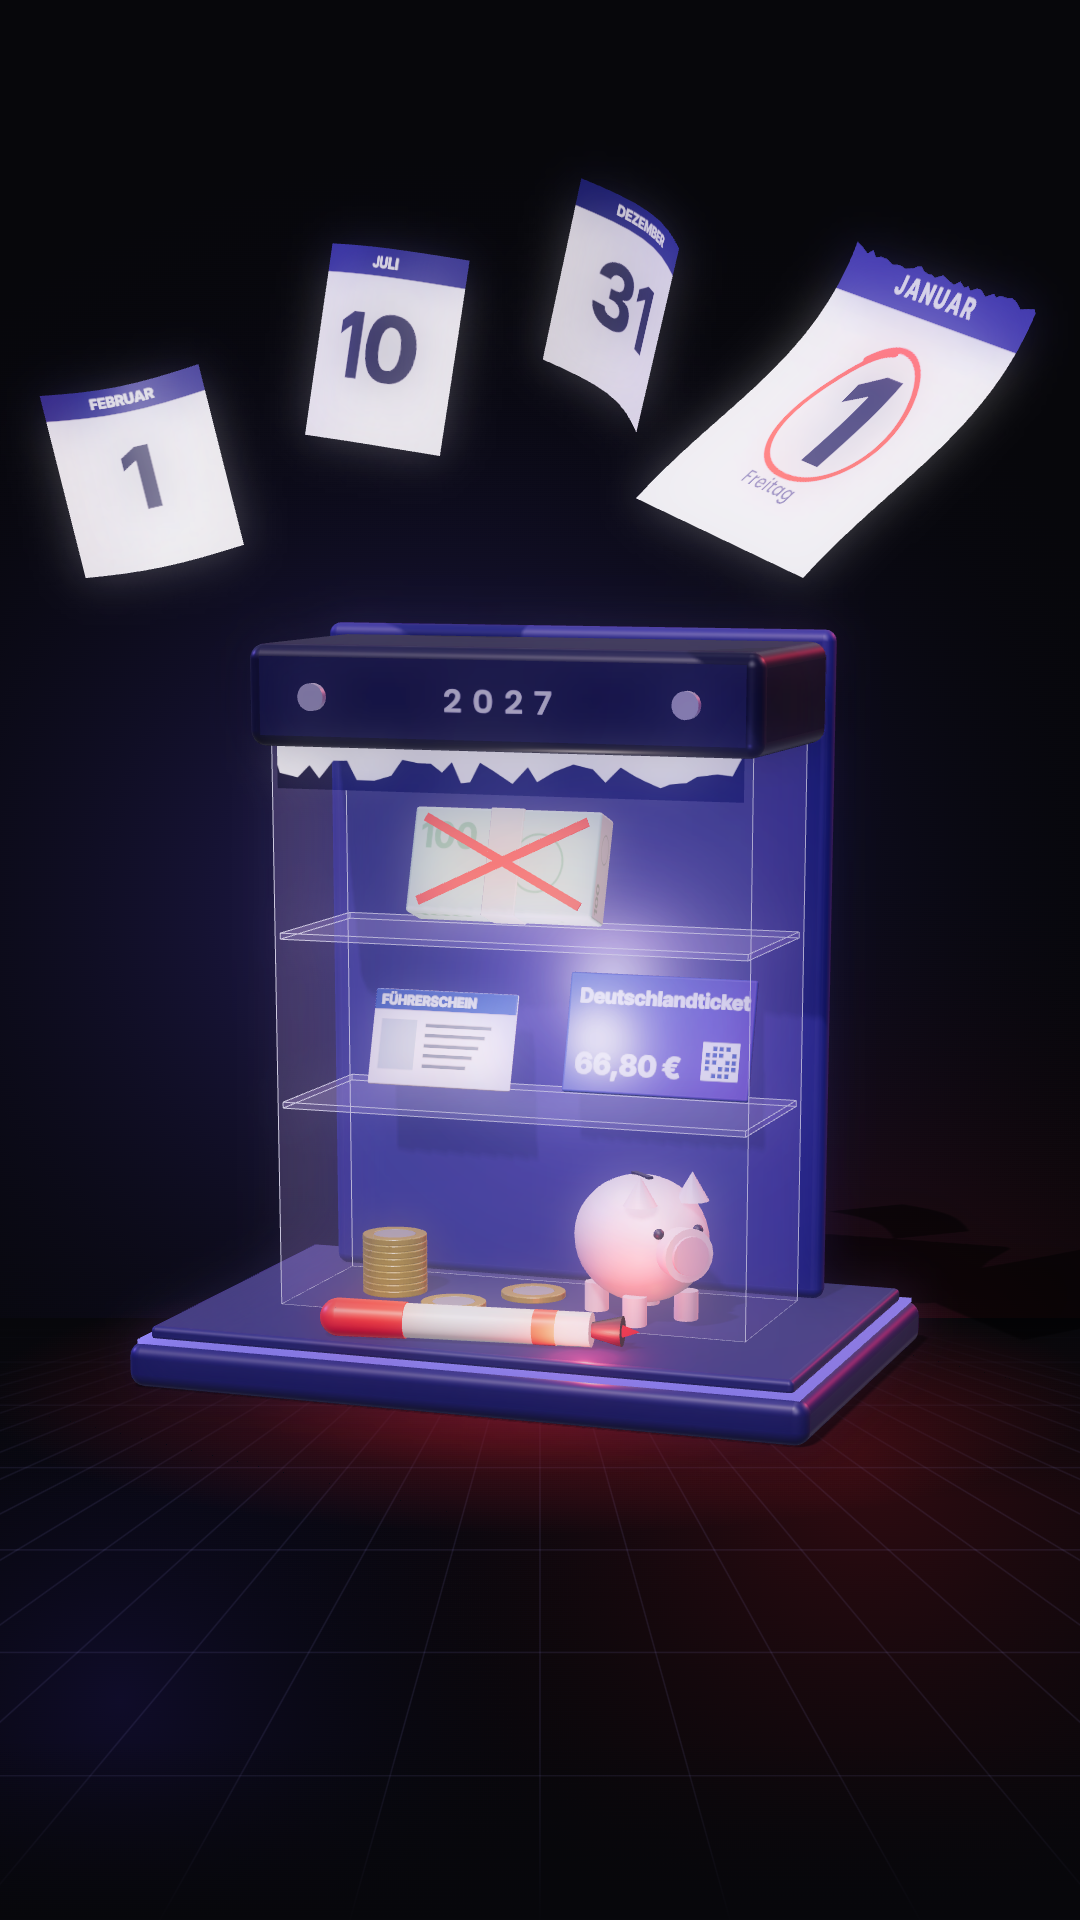
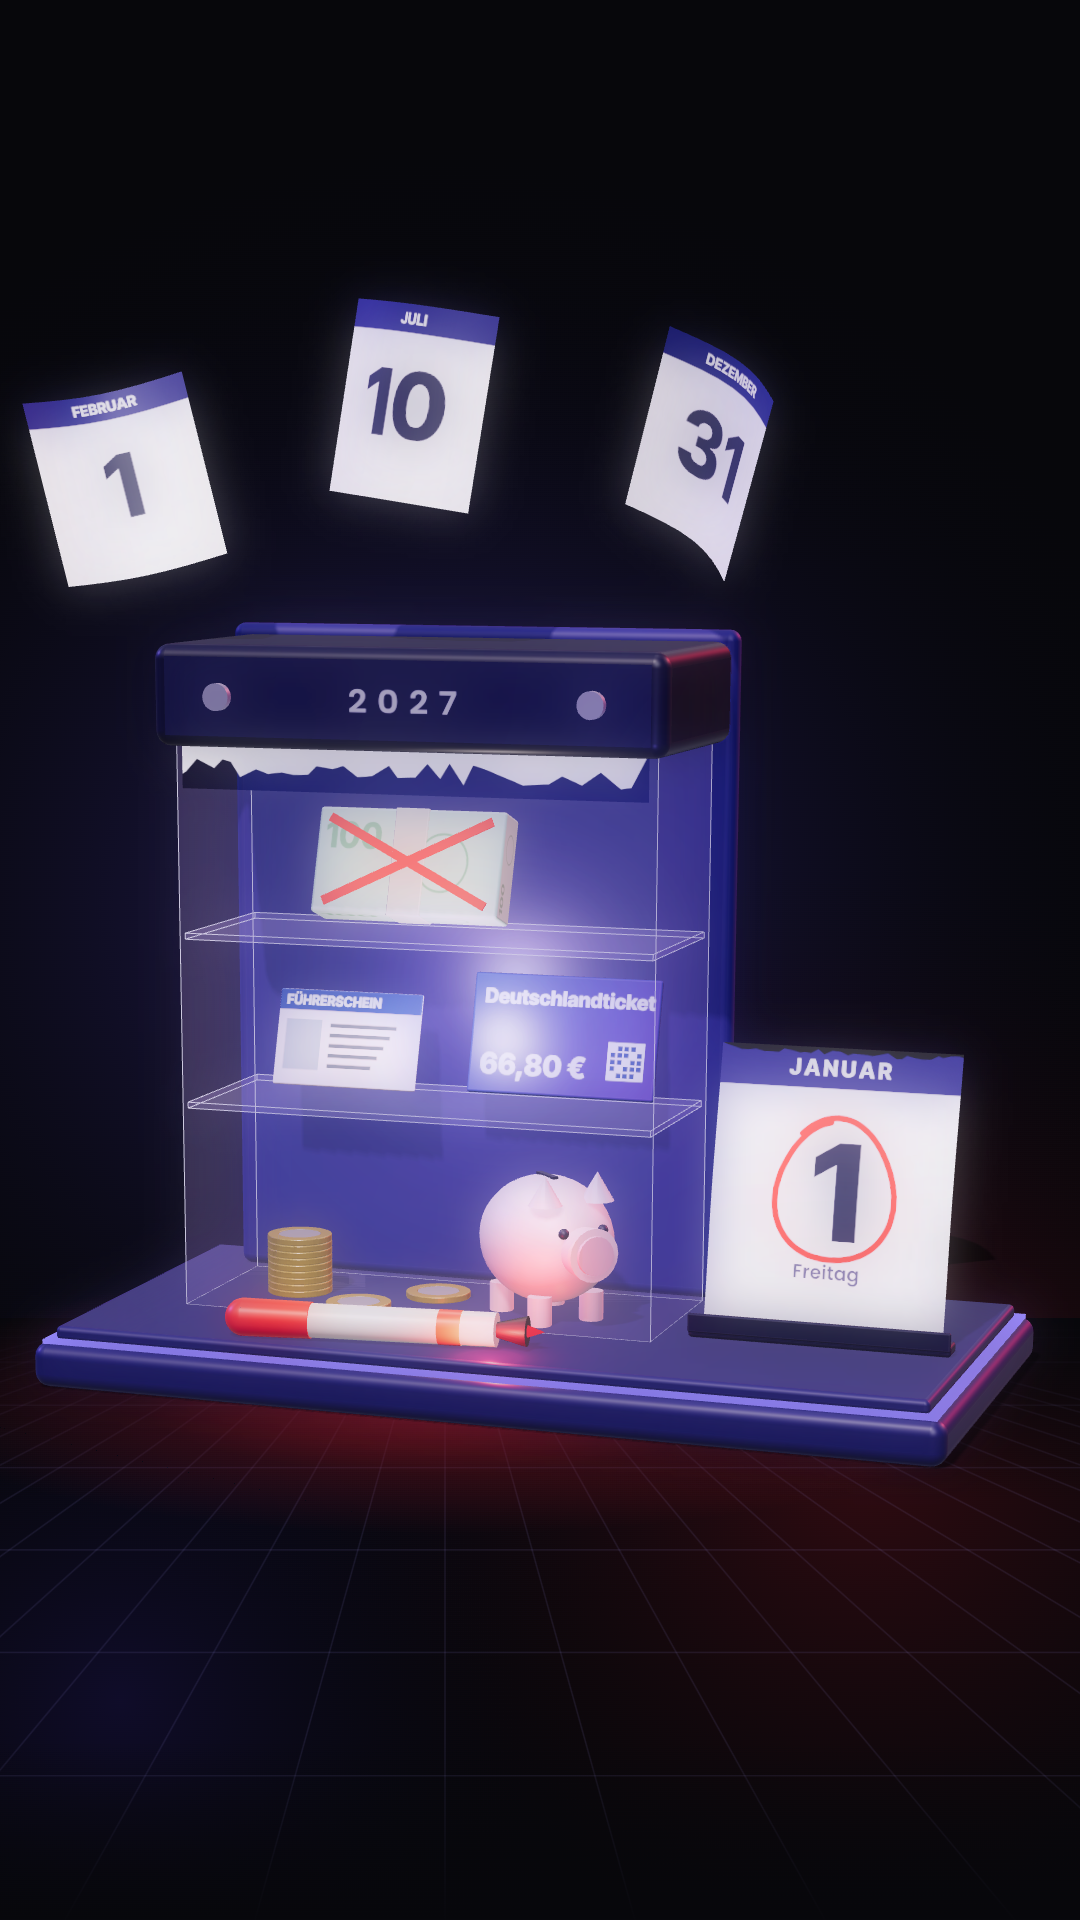
2027-Cover: Januar-Blatt steht im Aufsteller neben dem Kalender
Claude-Session: https://claude.ai/code/session_01JQEQeouhfuAX8JpSfuj7SD

Changed region(s): [[0.0306, 0.0938, 0.9778, 0.7812], [0.275, 0.125, 0.4583, 0.2812], [0.0306, 0.1875, 0.2444, 0.3125]]

diff --git a/jahr2027/cover_clean.html b/jahr2027/cover_clean.html
@@ -20,8 +20,8 @@ import {RoundedBoxGeometry} from 'three/addons/geometries/RoundedBoxGeometry.js'
 await Promise.all(['600 40px Poppins','800 96px "Inter Tight"'].map(f=>document.fonts.load(f)));
 const W=1080,H=1920;const Q=new URLSearchParams(location.search);const V=+(Q.get('v')||1);
 const bg=document.getElementById('bg').getContext('2d'),fg=document.getElementById('fg').getContext('2d');
-const DEF={1:{cy:1450,el:14,ry:-0.38,s:1.12},2:{cy:1330,el:14,ry:-0.38,s:1.12},3:{cy:1360,el:14,ry:-0.34,s:1.05}}[V];
-const CX=+(Q.get('cx')||540),CY=+(Q.get('cy')||DEF.cy);
+const DEF={1:{cy:1360,el:14,ry:-0.38,s:1.05},2:{cy:1330,el:14,ry:-0.38,s:1.12},3:{cy:1360,el:14,ry:-0.34,s:1.05}}[V];
+const CX=+(Q.get('cx')||(V===2?540:445)),CY=+(Q.get('cy')||DEF.cy);
 // ---------- background (same recipe as the other clean covers) ----------
 {bg.fillStyle='#07070B';bg.fillRect(0,0,W,H);
  const blob=(x,y,r,c)=>{const g=bg.createRadialGradient(x,y,0,x,y,r);g.addColorStop(0,c);g.addColorStop(1,'rgba(0,0,0,0)');bg.fillStyle=g;bg.fillRect(0,0,W,H);};
@@ -65,9 +65,10 @@ const coin=(par,x,y,z,rx,ry,rz=0)=>{const G=new THREE.Group();G.position.set(x,y
 // ---------------- the calendar ----------------
 const C=obj;const PW=1.3,PH=1.5,PD=0.5,BY=0.16;
 // plinth with a lit edge
-RB(C,PW+0.55,0.12,PD+0.7,PAN,0,0.06,0.05,0.04);
-add(C,new THREE.BoxGeometry(PW+0.5,0.012,PD+0.65),new THREE.MeshBasicMaterial({color:0x9a8cff,toneMapped:false}),0,0.122,0.05);
-RB(C,PW+0.45,0.04,PD+0.6,PAN,0,0.14,0.05,0.015);
+const XW=(V===2?0:0.58),XO=XW/2; // v1/v3: the plinth is longer to the right, the torn page stands there in a small holder
+RB(C,PW+0.55+XW,0.12,PD+0.7,PAN,XO,0.06,0.05,0.04);
+add(C,new THREE.BoxGeometry(PW+0.5+XW,0.012,PD+0.65),new THREE.MeshBasicMaterial({color:0x9a8cff,toneMapped:false}),XO,0.122,0.05);
+RB(C,PW+0.45+XW,0.04,PD+0.6,PAN,XO,0.14,0.05,0.015);
 // back plate and header bar with rivets
 RB(C,PW+0.12,PH+0.28,0.06,NAVY,0,BY+(PH+0.28)/2,-PD/2-0.05,0.03);
 const hb=canvasTex(1024,180,(g,w,h)=>{g.fillStyle='#1b1846';g.fillRect(0,0,w,h);g.fillStyle='rgba(220,214,255,0.8)';g.font='600 70px Poppins';g.textAlign='center';g.letterSpacing='22px';g.fillText('2027',w/2+11,118);});
@@ -122,15 +123,21 @@ function PAGES(){const pw=PW-0.04,ph=PH-0.04;
   const torn=(()=>{const c=document.createElement('canvas');c.width=pageT.image.width;c.height=pageT.image.height;const g=c.getContext('2d');g.drawImage(pageT.image,0,0);
     g.globalCompositeOperation='destination-out';g.beginPath();g.moveTo(0,0);let x=0;while(x<c.width){x+=16+Math.random()*24;g.lineTo(Math.min(c.width,x),8+Math.random()*26);}g.lineTo(c.width,0);g.closePath();g.fill();
     const t=new THREE.CanvasTexture(c);t.colorSpace=THREE.SRGBColorSpace;t.anisotropy=8;return t;})();
-  const G=pageMesh(pageGeo(pw,ph,v=>0.55*Math.sin(v*Math.PI)*0.6+v*0.5),torn);G.children.forEach(m=>{m.material.transparent=true;m.material.alphaTest=0.5;});
+  const G=pageMesh(pageGeo(pw,ph,v=>0.05*Math.sin(v*Math.PI*2)),torn); // nearly flat: it stands in the holderG.children.forEach(m=>{m.material.transparent=true;m.material.alphaTest=0.5;});
   if(!G.children[1].material.map){G.children[1].material.alphaMap=null;}
-  G.scale.setScalar(0.56);G.position.set(1.02,BY+PH+0.74,0.5);G.rotation.set(-0.3,-0.6,-0.42);C.add(G);}
+  // the torn page stands right next to the calendar in a small holder on the plinth: a ledge in front, a wire stand behind, leaning back slightly
+  const sc=0.5,w=pw*sc,h=ph*sc,a=0.2,x0=1.07,y0=0.16+0.03,z0=0.12;G.scale.setScalar(sc);G.rotation.set(-a,0,0);
+  G.position.set(x0,y0+h/2*Math.cos(a),z0-h/2*Math.sin(a));C.add(G);
+  RB(C,w+0.06,0.03,0.07,DARK,x0,0.16+0.015,z0+0.01,0.01);RB(C,w+0.06,0.05,0.012,DARK,x0,0.16+0.04,z0+0.045,0.005);
+  const back=z0-0.02-h*0.62*Math.sin(a);for(const sx of [-1,1]){const A=new THREE.Vector3(x0+sx*w*0.3,0.16,z0-0.32),B=new THREE.Vector3(x0+sx*w*0.3,y0+h*0.62*Math.cos(a),back);
+    const g=new THREE.CylinderGeometry(0.008,0.008,A.distanceTo(B),10);g.translate(0,A.distanceTo(B)/2,0);g.applyQuaternion(new THREE.Quaternion().setFromUnitVectors(new THREE.Vector3(0,1,0),B.clone().sub(A).normalize()));const m=new THREE.Mesh(g,METAL);m.position.copy(A);m.castShadow=true;C.add(m);}
+  {const g=new THREE.CylinderGeometry(0.008,0.008,w*0.6,10).rotateZ(Math.PI/2);const m=new THREE.Mesh(g,METAL);m.position.set(x0,y0+h*0.62*Math.cos(a),back);C.add(m);}}
 PAGES();
 // v3: three more torn pages drift above the calendar
 if(V===3){const months=['FEBRUAR','JULI','DEZEMBER'],days=['1','10','31'];months.forEach((mn,i)=>{const T=canvasTex(512,590,(g,w,h)=>{g.fillStyle='#ece6ff';g.fillRect(0,0,w,h);g.fillStyle='#2b2778';g.fillRect(0,0,w,86);g.fillStyle='#f4f1ff';g.font='800 46px "Inter Tight"';g.textAlign='center';g.fillText(mn,w/2,60);
     g.fillStyle='#1d1a4a';g.font='800 280px "Inter Tight"';g.fillText(days[i],w/2,400);});const p=new THREE.Mesh(new THREE.PlaneGeometry(0.42,0.48,8,8),new THREE.MeshStandardMaterial({map:T,roughness:.55,side:THREE.DoubleSide}));
   const pos=p.geometry.attributes.position;for(let k=0;k<pos.count;k++){const x=pos.getX(k);pos.setZ(k,0.06*Math.sin((x+0.21)/0.42*Math.PI)*(i%2?1:-1));}p.geometry.computeVertexNormals();
-  p.position.set([-1.0,-0.38,0.2][i],BY+PH+[0.68,0.98,1.08][i],[0.25,0.1,0.05][i]);p.rotation.set(-0.3+i*0.2,[0.5,-0.2,-0.6][i],[0.35,-0.15,-0.4][i]);p.castShadow=true;C.add(p);});}
+  p.position.set([-0.78,-0.05,0.68][i],BY+PH+[0.66,0.84,0.72][i],[0.25,0.1,0.05][i]);p.rotation.set(-0.3+i*0.2,[0.5,-0.2,-0.6][i],[0.35,-0.15,-0.4][i]);p.castShadow=true;C.add(p);});}
 // the red marker lying on the plinth in front
 {const Mk=new THREE.Group();Mk.position.set(0.3,0.16+0.05,0.45);Mk.rotation.set(0,0.12,Math.PI/2);C.add(Mk);const wh=M(0xeceae5,{roughness:.35});
  add(Mk,new THREE.CylinderGeometry(0.045,0.045,0.5,28),wh,0,0.25,0);add(Mk,new THREE.CylinderGeometry(0.046,0.046,0.06,28),REDS,0,0.12,0);add(Mk,new THREE.CylinderGeometry(0.05,0.048,0.18,28),REDS,0,0.58,0);

diff --git a/STATUS.md b/STATUS.md
@@ -123,7 +123,7 @@ Der Nutzer wollte neue Ideen ohne Diorama-Look und hat dieses Thema gewählt, da
 - Higgsfield-Guthaben war 0, deshalb ist alles selbst in 3D gebaut; Prompts für eine spätere Variante stehen im Drehbuch unter F.
 - Fertig am 19.11.2026: `Was_aendert_sich_2027_mit_Musik.mp4` und `_nur_Effekte.mp4` (77,0 s, −16 LUFS), Upload-Fassung mit Cover als erstem Standbild in `social/Was_aendert_sich_2027_Upload_mit_Cover.mp4`, Kontaktbogen `Kontaktbogen_Was_aendert_sich_2027.jpg`. Die ersten 248 Bilder wurden mit einer lebendigeren Hook-Kamera neu gerendert (`fr2`, Naht bei Bild 248 geprüft). Effekte liegen 5 bis 8 dB unter der Stimme.
 - Dritte Fassung (19.11.2026, Feedback mit sieben Screenshots): Nichts ragt mehr in den Tisch (geprüft für jedes Bild mit `node clipcheck.mjs 0 76`, Kollisionen von Bündel, Theke und Figuren mit `node collide.mjs 61 71`). Die Balken haben einen Sockel mit großem „2026/2027“, die Werte stehen auf den Balken. Die Lasche des Musterungsbriefs sitzt hinten, der Brief kommt davor heraus, die Adresse passt ins Fenster. Die Brutto-Zeile passt immer zum Stundenlohn. Statt der Figuren, die nach KI aussahen, gibt es zwei Holz-Spielfiguren (`mkMeeple` in `src/props.js`, `meepleAnim` in `src/main.js`), das Bündel rutscht über den Tisch statt zu schweben. Alle Effekte kommen aus der Soundza-Bibliothek (IDs in `SOUNDS.md`), Musik sowie Whoosh und Klicks des Nutzers bleiben. Das Video wurde komplett neu gerendert (`fr3`, dann nach `fr`).
-- Cover neu (Wunsch des Nutzers, 20.11.2026: „das Cover im Stil von meinen anderen“): `jahr2027/cover_clean.html` (Server Port 8777 im Ordner `jahr2027`, `node cover_clean.mjs out.png "?v=1"`), clean wie Geldautomat, Fernsehturm und Merz: kompakter Abreißkalender „2027“ in Lila und Violett auf einer Platte mit Lichtkante, gläserner Blattblock mit Blick ins Innere (Münzstapel, Deutschlandticket 66,80 €, Sparschwein, Führerschein, Geldbündel mit rotem Kreuz), roter Filzstift auf der Platte. `?v=1` das Januar-Blatt mit rotem Kringel fliegt gerade ab (als Thumbnail gesetzt), `?v=2` das Blatt rollt sich unten auf, `?v=3` wie 1 mit drei weiteren fliegenden Blättern. Vergleich: `jahr2027/social/Cover_2027_Varianten.jpg`. Das alte Cover (Kalender auf dem grauen Tisch) liegt in `social/cover_alt/`. Danach auf Fehler geprüft und überarbeitet (Wunsch des Nutzers, 20.11.2026): Nichts schwebt mehr, Münzen liegen flach auf dem Boden, Führerschein und Deutschlandticket stehen auf einem gläsernen Regalboden und lehnen an der Rückwand, das Geldbündel steht auf einem zweiten Regalboden, das rote Kreuz bleibt auf dem Bündel, der Stift liegt ganz auf der Platte, das abgerissene Blatt (mit gerissener Oberkante) fliegt frei über der Kopfleiste und liegt komplett im 3:4-Ausschnitt.
+- Cover neu (Wunsch des Nutzers, 20.11.2026: „das Cover im Stil von meinen anderen“): `jahr2027/cover_clean.html` (Server Port 8777 im Ordner `jahr2027`, `node cover_clean.mjs out.png "?v=1"`), clean wie Geldautomat, Fernsehturm und Merz: kompakter Abreißkalender „2027“ in Lila und Violett auf einer Platte mit Lichtkante, gläserner Blattblock mit Blick ins Innere (Münzstapel, Deutschlandticket 66,80 €, Sparschwein, Führerschein, Geldbündel mit rotem Kreuz), roter Filzstift auf der Platte. `?v=1` das Januar-Blatt mit rotem Kringel fliegt gerade ab (als Thumbnail gesetzt), `?v=2` das Blatt rollt sich unten auf, `?v=3` wie 1 mit drei weiteren fliegenden Blättern. Vergleich: `jahr2027/social/Cover_2027_Varianten.jpg`. Das alte Cover (Kalender auf dem grauen Tisch) liegt in `social/cover_alt/`. Danach auf Fehler geprüft und überarbeitet (Wunsch des Nutzers, 20.11.2026): Nichts schwebt mehr, Münzen liegen flach auf dem Boden, Führerschein und Deutschlandticket stehen auf einem gläsernen Regalboden und lehnen an der Rückwand, das Geldbündel steht auf einem zweiten Regalboden, das rote Kreuz bleibt auf dem Bündel, der Stift liegt ganz auf der Platte, das abgerissene Blatt (mit gerissener Oberkante) fliegt frei über der Kopfleiste und liegt komplett im 3:4-Ausschnitt. Danach (Wunsch des Nutzers: „Mach das Blatt mit erste Januar neben dran“): Die Platte ist nach rechts verlängert, und das abgerissene Januar-Blatt steht dort in einem kleinen dunklen Aufsteller mit Drahtstütze direkt neben dem Kalender, leicht nach hinten geneigt (Variante 1, als Thumbnail gesetzt; Variante 3 genauso, mit drei weiteren fliegenden Blättern).
 - Outro v8 (Wunsch des Nutzers, 20.11.2026: „Mach einfach nur, dass function. erscheint, 2 Sekunden, das ist mir alles zu schlecht“): Nach Stempel, roter Linie, rollendem Stift, Silvester-Feuerwerk und zehn Kreisen, die zum Punkt werden (alle verworfen), blendet das Bild nach dem letzten Satz in 0,3 s auf den dunklen Hintergrund ab, und in der Mitte erscheint ruhig das rote „function.“ (Poppins 500, 190 px) und bleibt stehen (`logoOutro()` in `src/main.js`, Canvas `#fw`). Danach (Wunsch des Nutzers: „Hintergrund bisschen heller sehen und der Punkt kommt nach“): Der Hintergrund wird nur auf etwa 60 % abgedunkelt, sodass Kalender und Objekte schwach sichtbar bleiben und ruhig stehen (die Objekte bleiben bis zum Ende in ihrer Übersichtsposition). „function“ blendet zuerst ein, der Punkt ploppt etwa eine halbe Sekunde später nach, dazu ein leiser Klick (`LO` in `src/main.js`). Video 75,6 s (2268 Bilder).
 - Überarbeitung am 19.11.2026 (Wunsch des Nutzers, nur zwei Szenen): Das Sparschwein (0:31–0:37) trabt mit Gelenkbeinen hinein und hinaus, drei Münzen fallen sichtbar in den Schlitz; der Führerschein (0:42–0:49) ist eine zweiseitige Karte, alt (2003, vergilbt) fliegt heran und dreht sich bei „umtauschen“ in den neuen EU-Führerschein. Eigene Kameras nur dort (`blendCam()`), dezente Schritte, Münzeinwürfe und Karten-Geräusch. Neu gerendert wurden nur die Bilder 918–1116, 1262–1484 und 2090–2240 (Übersicht zeigt neues Schwein und neue Karte); die Nähte sind geprüft (Abweichung 0).
 - Offen: Higgsfield (Virality Predictor, fotorealistisches Cover, alternativer Hook) erst, wenn der Nutzer Credits auflädt; Metricool-Entwürfe erst auf Wunsch.
